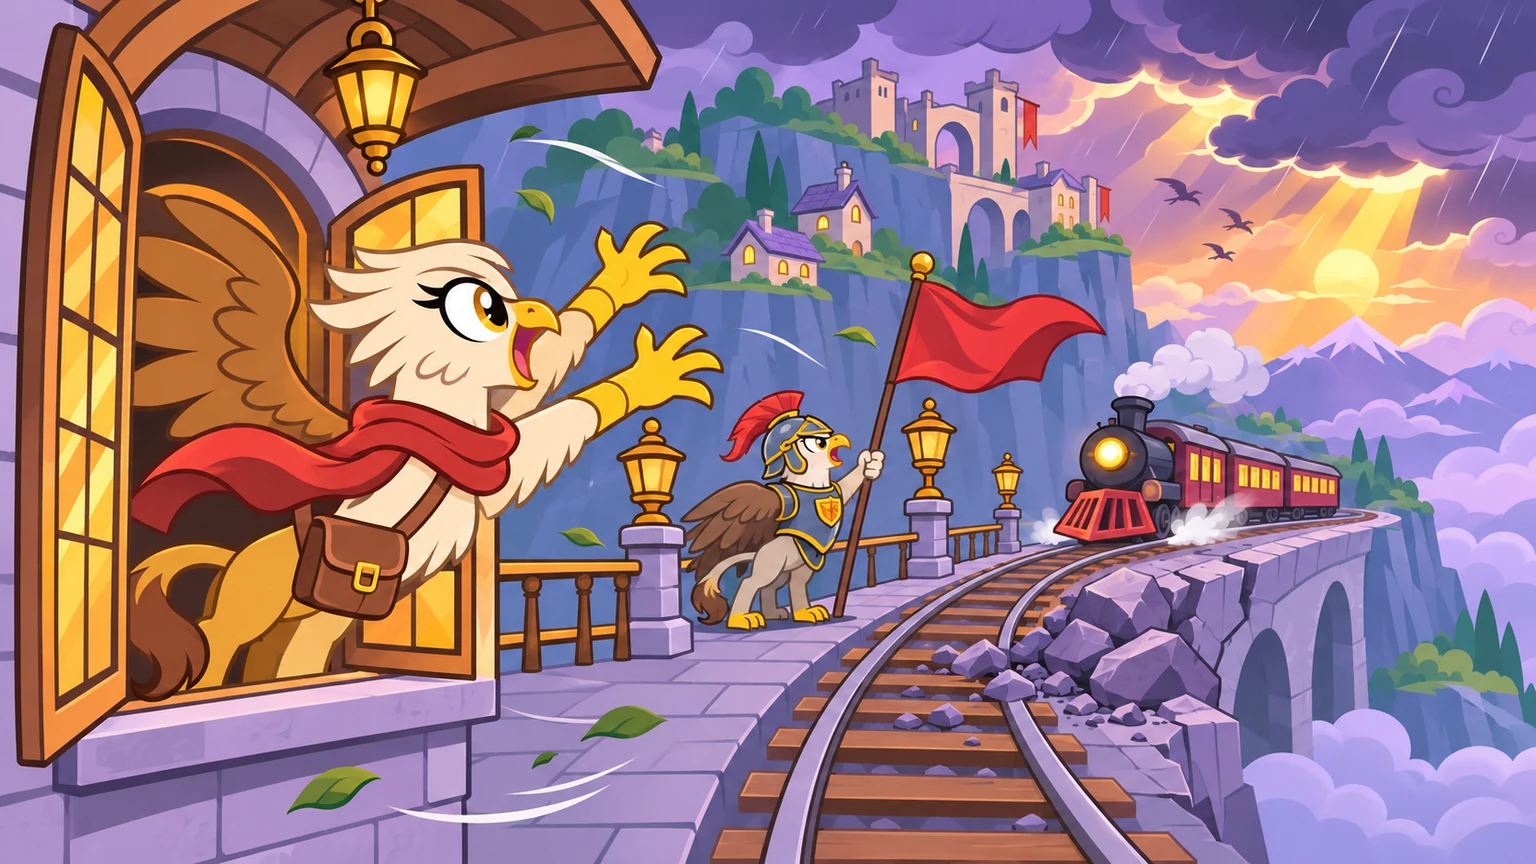
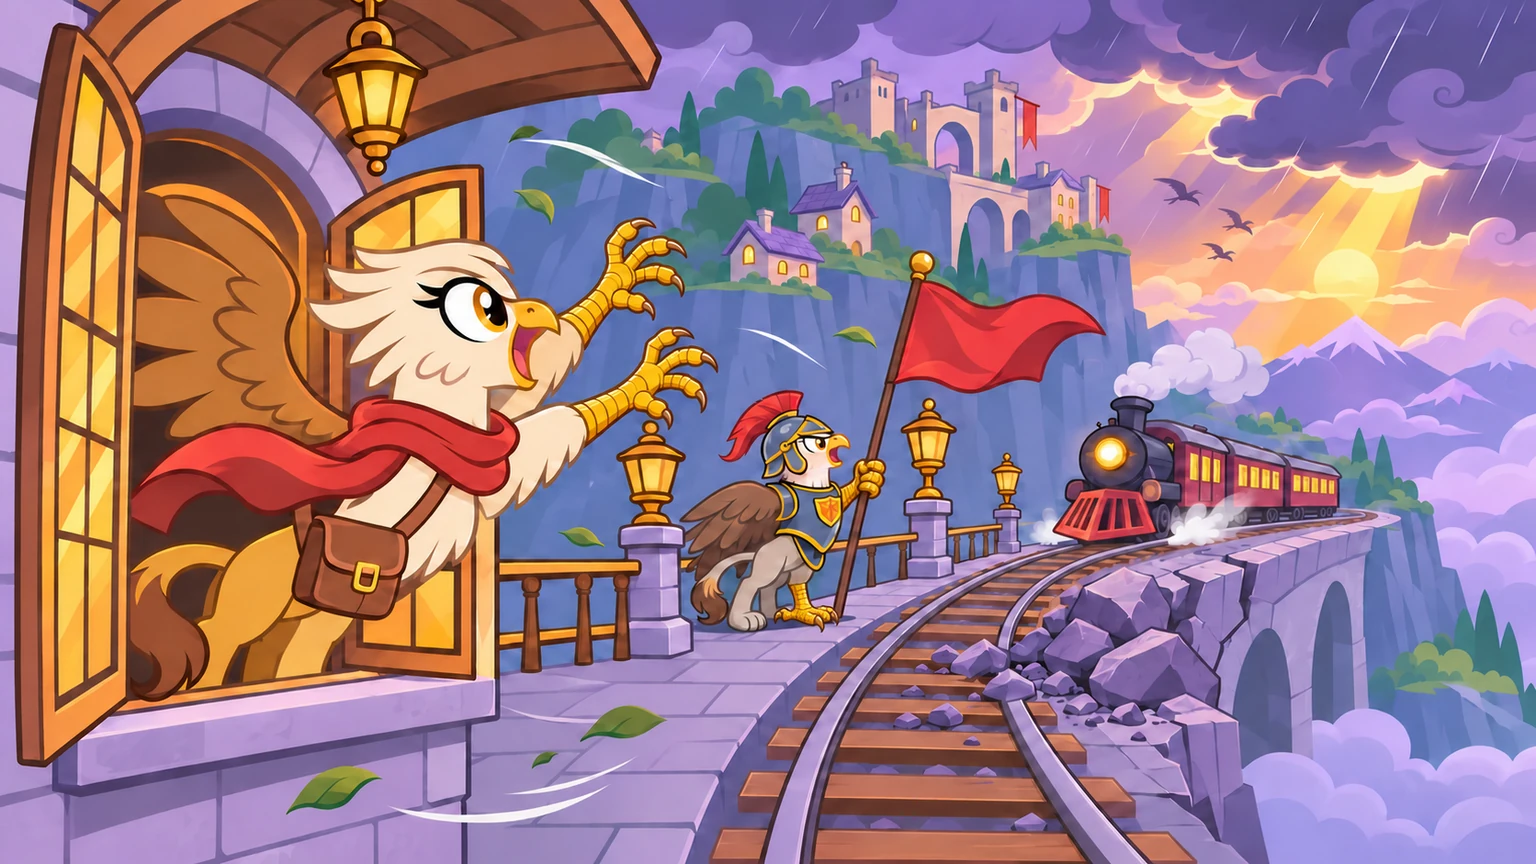
Correct griffon foretalons and hind paws in the ending art

diff --git a/play.js b/play.js
@@ -75,7 +75,7 @@ function render(moveFocus = false) {
   byId('cover-plate').hidden = isEnding;
   endingPlate.hidden = !isEnding;
   if (isEnding) {
-    const imagePath = 'endings/' + key + '.webp';
+    const imagePath = 'endings/' + key + '.webp?v=griffon-anatomy';
     endingImage.alt = node.artAlt;
     endingImage.src = imagePath;
     endingPlate.style.setProperty('--ending-art', 'url("' + imagePath + '")');

diff --git a/index.html b/index.html
@@ -8,7 +8,7 @@
   <title>The Last Train to Griffonstone</title>
   <link rel="stylesheet" href="style.css?v=ending-art">
   <script defer src="story.js?v=ending-art"></script>
-  <script defer src="play.js?v=ending-art"></script>
+  <script defer src="play.js?v=griffon-anatomy"></script>
 </head>
 <body>
   <a class="skip" href="#story">Skip to story</a>
